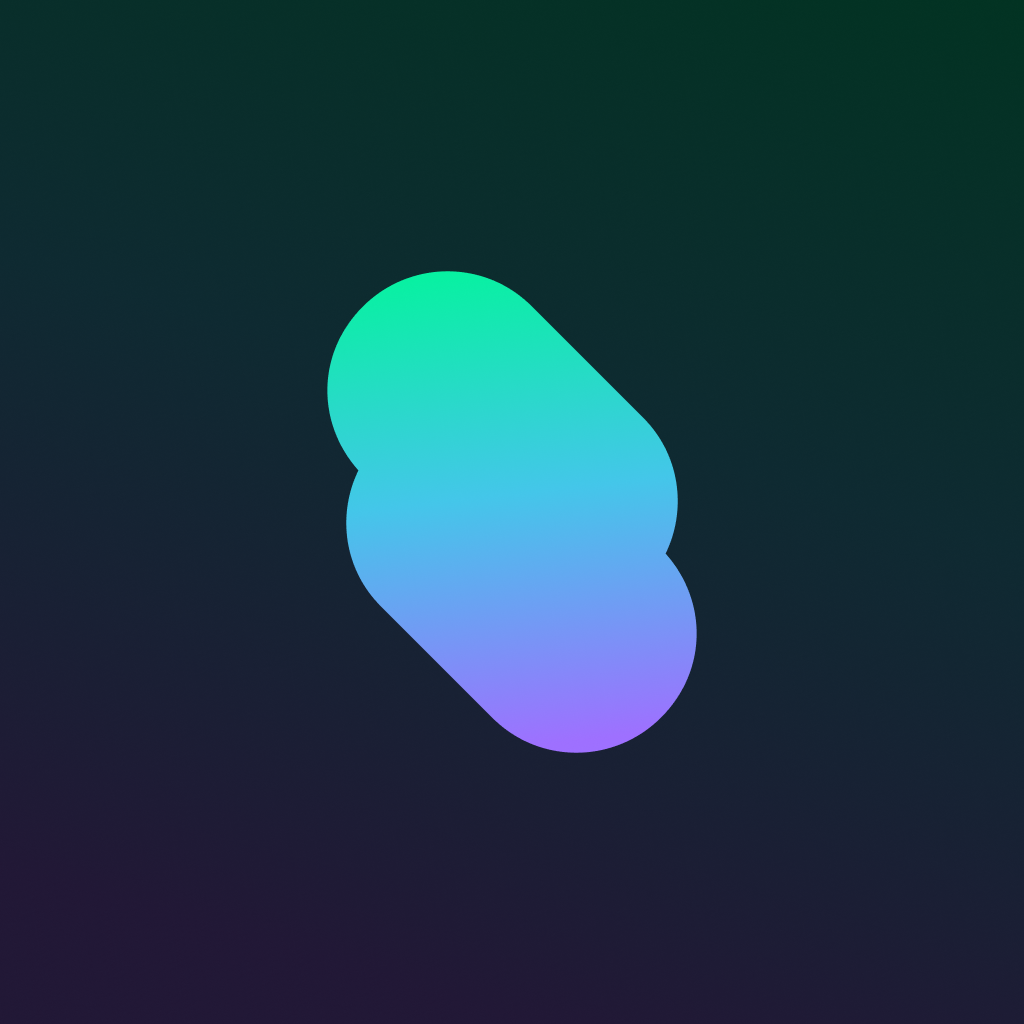
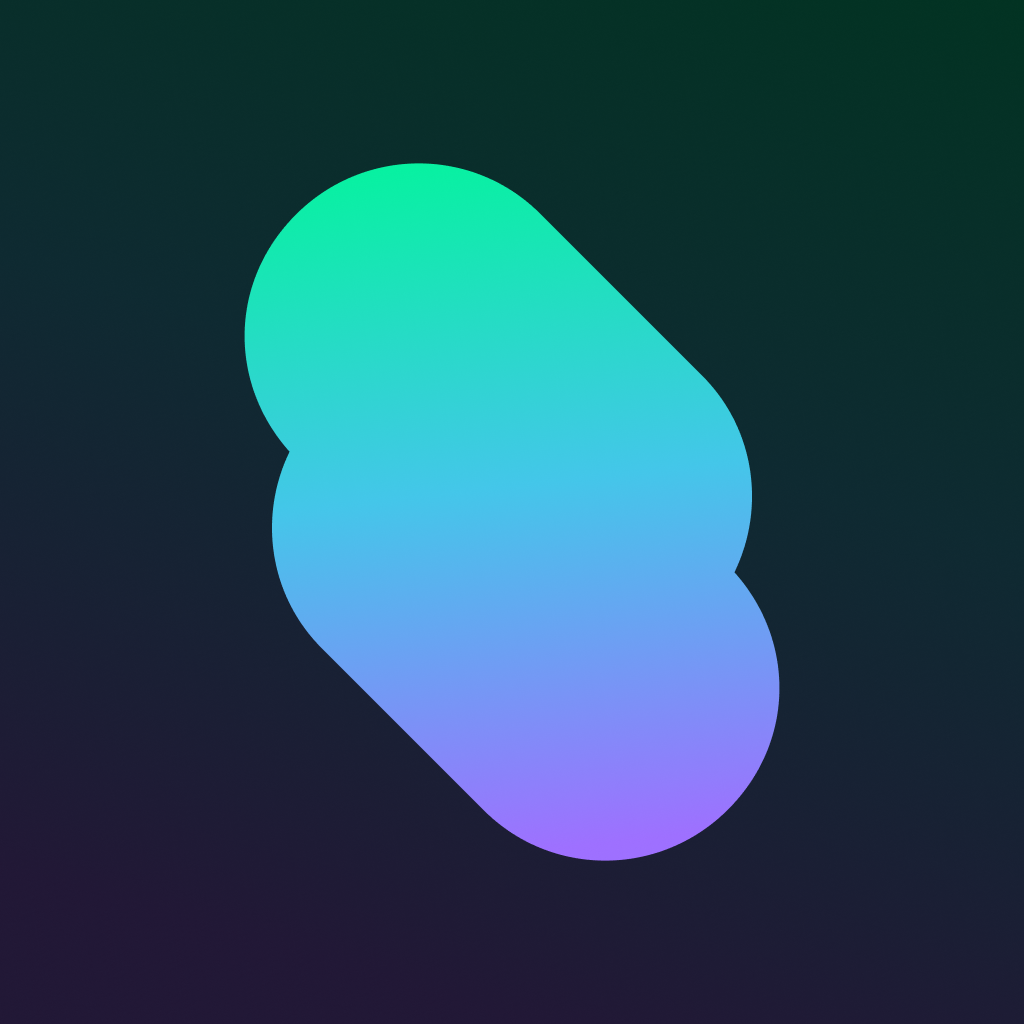
앱 크기 로고 수정 and 채팅방 전송버튼 색깔 and 프로필 설정시 로딩 표시 추가 and 키보드 안 내려가는 현상 해결(테스트 x)

Changed region(s): [[0.2188, 0.1562, 0.7812, 0.8438]]

diff --git a/app/screens/chatscreen/ChattingRoomScreen.tsx b/app/screens/chatscreen/ChattingRoomScreen.tsx
@@ -400,16 +400,12 @@ const confirmDeleteMessage = (messageId: string) => {
             return;
         pointerRef.current+=1;
         const messageId=searchMessages[pointerRef.current]?.id;
-        // console.log("포인터",pointerRef.current);
-        // console.log("보내는 메세지 ID ",messageId);
+      
         try{
             const res=await api.get(`${Config.SERVER_URL}/api/v1/chat/rooms/${roomId}/messages/around?messageId=${messageId}`);
            
             const resultMessages: ChatHistory[] = res.data.data;
-            // console.log("위로 이동 후 메시지",resultMessages);
             setMessages([...resultMessages].reverse());
-            // 중앙으로 스크롤
-        // FlatList 렌더링 후 스크롤
             InteractionManager.runAfterInteractions(() => {
             scrollToHighlightMessage(messageId);
             });
@@ -424,13 +420,9 @@ const confirmDeleteMessage = (messageId: string) => {
             return;
         pointerRef.current-=1;
         const messageId=searchMessages[pointerRef.current]?.id;
-        // console.log("포인터",pointerRef.current);
-        // console.log("보내는 메세지 ID ",messageId);
         try{
             const res=await api.get(`${Config.SERVER_URL}/api/v1/chat/rooms/${roomId}/messages/around?messageId=${messageId}`);
-            //  console.log("res",res.data.data);
             const resultMessages: ChatHistory[] = res.data.data;
-            // console.log("아래로 이동 후 메시지",resultMessages);
             setMessages([...resultMessages].reverse());
             // 중앙으로 스크롤
             // FlatList 렌더링 후 스크롤
@@ -726,7 +718,7 @@ const confirmDeleteMessage = (messageId: string) => {
                             placeholderTextColor="#888"
                         />
                         <SendImageBox onPress={sendMessage}>
-                            <SendImage source={require("@/assets/images/Send.png")}/>
+                            <SendImage tintColor={inputText ? "#02F59B" : "#ffffff"} source={require("@/assets/images/Send.png")}/>
                         </SendImageBox>
                     </BottomContainer>)}
 

diff --git a/app/screens/makeprofile/AddPhotoStepScreen.tsx b/app/screens/makeprofile/AddPhotoStepScreen.tsx
@@ -1,6 +1,6 @@
 import React, { useState } from 'react';
 import styled from 'styled-components/native';
-import { SafeAreaView, StatusBar, Alert } from 'react-native';
+import { SafeAreaView, StatusBar, Alert, ActivityIndicator } from 'react-native';
 import { useRouter } from 'expo-router';
 import * as ImagePicker from 'expo-image-picker';
 import Fontisto from '@expo/vector-icons/Fontisto';
@@ -16,7 +16,8 @@ import * as FileSystem from 'expo-file-system';
 // ------------------------
 // AddPhotoStepScreen
 // ------------------------
-export default function AddPhotoStepScreen({ navigation }) {
+export default function AddPhotoStepScreen({  }) {
+  const [Loading,setLoading]=useState(false);
   const [selectedAvatar, setSelectedAvatar] = useState(-1);
   const [selectedPhoto, setSelectedPhoto] = useState(null);
   const { profileData, updateProfile } = useProfile();
@@ -135,7 +136,7 @@ export default function AddPhotoStepScreen({ navigation }) {
 
   // 프로필 등록 
   const doneProfile=async()=>{
-
+    setLoading(true);
     if(selectedPhoto !== null){
         const filename=profileData.photo.name;
         const uploadSessionId = Crypto.randomUUID();
@@ -162,7 +163,9 @@ export default function AddPhotoStepScreen({ navigation }) {
       await SendImage(presignedInfo,photo);
       // 프로필 등록 완료 
        await CompleteProfile(presignedInfo.key);
+       setLoading(false);
     }catch (err) {
+        setLoading(false);
         console.error('API 요청 실패:', err);
     }
   }
@@ -181,6 +184,7 @@ export default function AddPhotoStepScreen({ navigation }) {
           url="https://kr.object.ncloudstorage.com/foreigner-bucket/default/character_03.png"
       }
       await CompleteProfile(url);
+      setLoading(false);
   }
   };
 
@@ -290,7 +294,8 @@ export default function AddPhotoStepScreen({ navigation }) {
           disabled={!canProceed}
           canProceed={canProceed}
         >
-          <ButtonText>Done</ButtonText>
+        {Loading?(<ActivityIndicator size="large" color="#000000" />):(<ButtonText>Done</ButtonText>)}
+          
         </NextButton>
 
         <BottomSpacer />

diff --git a/app/screens/makeprofile/AboutMeStepScreen.tsx b/app/screens/makeprofile/AboutMeStepScreen.tsx
@@ -1,6 +1,6 @@
 import { useRouter } from 'expo-router';
 import React, { useState } from 'react';
-import { Keyboard, SafeAreaView, StatusBar } from 'react-native';
+import { SafeAreaView, StatusBar } from 'react-native';
 import styled from 'styled-components/native';
 import { useProfile } from '../../contexts/ProfileContext';
 // ------------------------
@@ -41,12 +41,11 @@ export default function NameStepScreen() {
               onChangeText={setAboutMe}
               placeholder="Describe myself here"
               placeholderTextColor="#616262"
-              autoCapitalize="sentences"
               returnKeyType="done"
               multiline
               textAlignVertical="top"
               maxLength={70} // 소프트 리미트보다 약간 높게 설정
-              onSubmitEditing={() => Keyboard.dismiss()} // done 버튼 눌렀을 때 키보드 닫기
+              submitBehavior="blurAndSubmit"
             />
 
             <CharacterCountWrapper>

diff --git a/app/(tabs)/chat/CreateSpaceScreen.tsx b/app/(tabs)/chat/CreateSpaceScreen.tsx
@@ -180,7 +180,10 @@ const CreateSpaceScreen = () => {
             onChangeText={onChangeExplainText}
             placeholder="Describe space here"
             placeholderTextColor="#848687"
+            returnKeyType="done"
             multiline
+            submitBehavior="blurAndSubmit"
+            textAlignVertical="top"
             maxLength={200}
           />
           <LimitWrapper>

diff --git a/app/(tabs)/_layout.tsx b/app/(tabs)/_layout.tsx
@@ -3,7 +3,7 @@ import React from 'react';
 import { SafeAreaView,Image ,Text,StatusBar,Platform} from "react-native";
 import { Dimensions } from "react-native";
 const { height: screenHeight } = Dimensions.get("window");
-const TAB_BAR_HEIGHT = screenHeight * 0.12; // 화면 높이의 15%
+const TAB_BAR_HEIGHT = screenHeight * 0.117; // 화면 높이의 15%
 
 
 

diff --git a/app/(tabs)/chat/index.tsx b/app/(tabs)/chat/index.tsx
@@ -54,6 +54,7 @@ export default function ChatScreen() {
   const fetchRooms = async () => {
     try {
       const res = await api.get('/api/v1/chat/rooms');
+      
       setChatRooms(res.data.data);
     } catch (err) {
       console.error('채팅방 불러오기 실패:', err);

diff --git a/app/(tabs)/mypage/translate.tsx b/app/(tabs)/mypage/translate.tsx
@@ -55,7 +55,7 @@ export default function TranslateScreen() {
         const code: string = res?.data?.data?.language || 'EN';
         if (mounted) setSelected(code);
       } catch {
-
+        
       }
     })();
     return () => {

diff --git a/components/MyChatRoomBox.tsx b/components/MyChatRoomBox.tsx
@@ -7,7 +7,6 @@ import api from "@/api/axiosInstance";
 const SWIPE_THRESHOLD = 80; // 드래그해야 열림/닫힘이 되는 기준
 
 const MyChatRoomBox = ({data}) => {
- 
    const router = useRouter();
   
   //채팅방 진입
